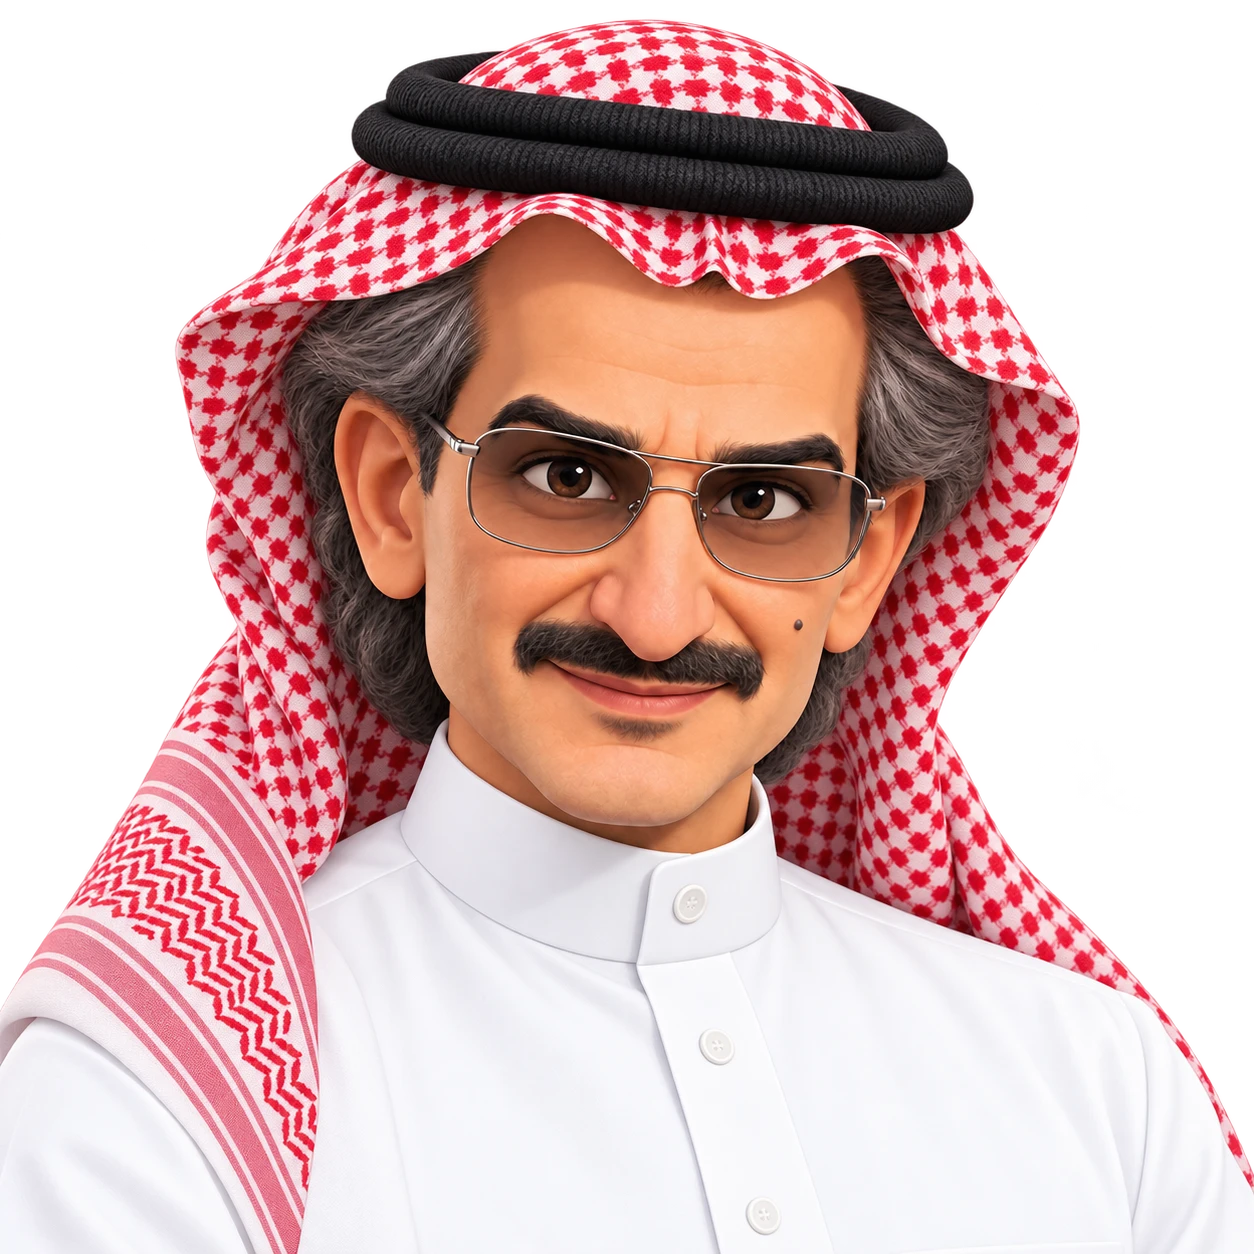
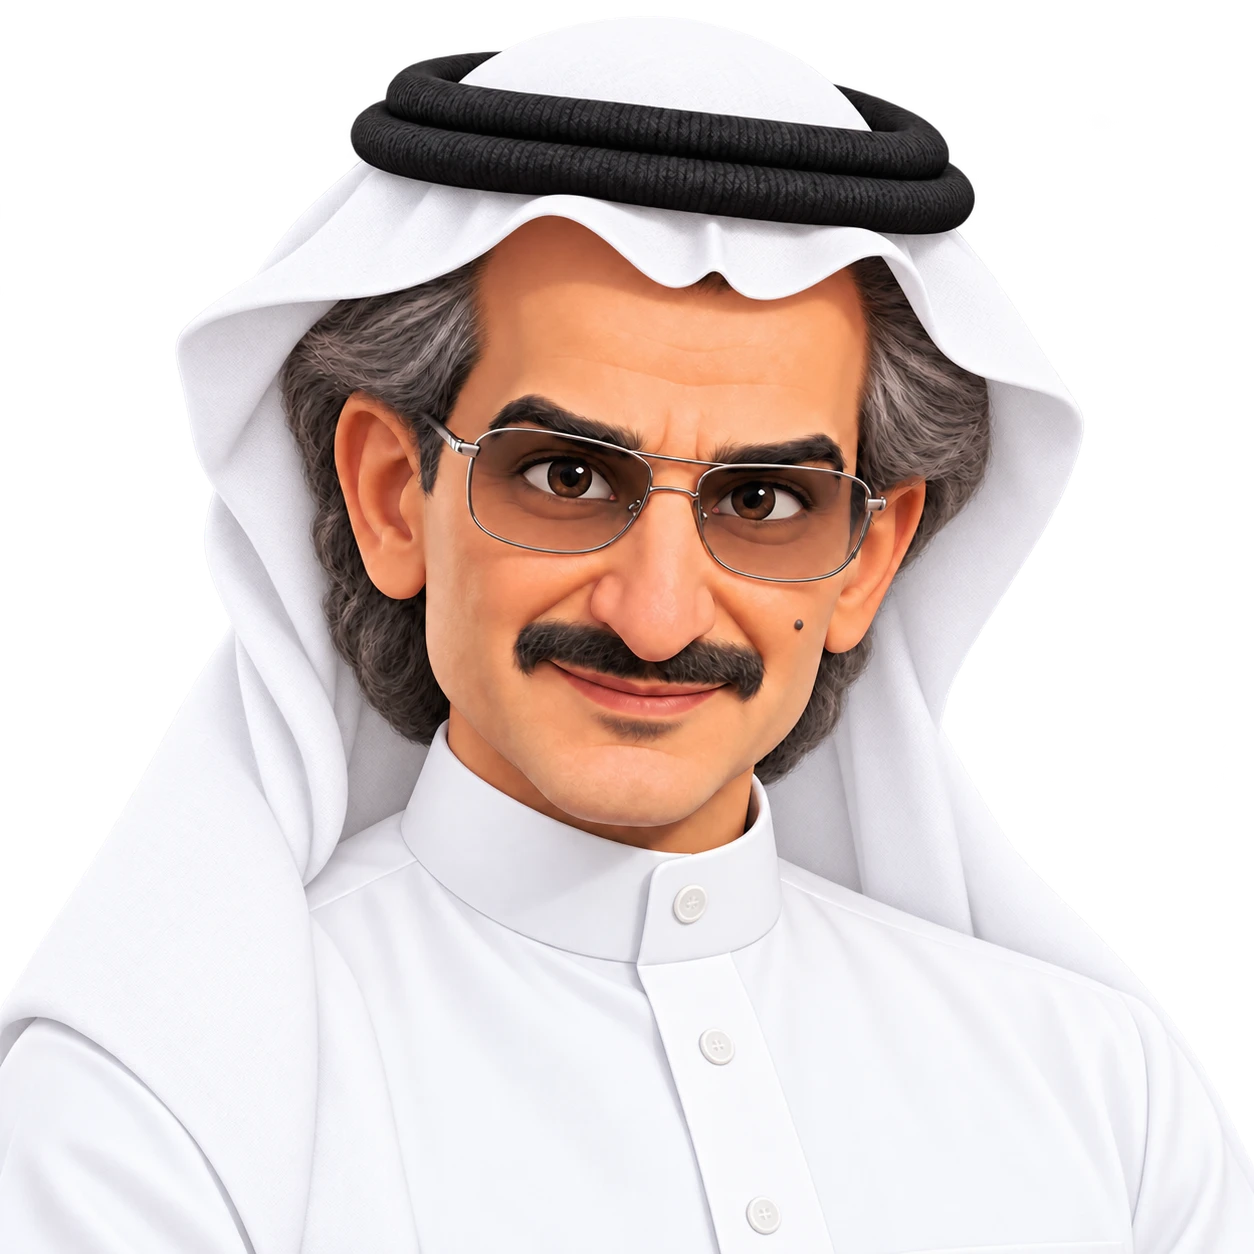
Alwaleed corrected, and the checker learns the new roster
The second Alwaleed has the white ghutra and black agal of the approved portrait.
One small drift remains -- the approved wears tinted lenses, this one clear --
which is recorded rather than sent back, since he is plainly still himself and a
third pass over lens tint is out of proportion.

check-advisor-images.mjs was still looking for alrajhi, so the Al-Rumayyan file
read as "not a seat" and the set reported a seat missing that had already
arrived. Its roster now matches settings.py.

Six of seven are in and consistent: subjects start between 1% and 4% of frame
height and fill 96-99%, centred at 50-51%. Only the Chair's gavel is left.

diff --git a/docs/advisors-image-requests.md b/docs/advisors-image-requests.md
@@ -356,3 +356,21 @@ Attach the approved photo again each time.
 > framing, lighting and transparent background as the reference.
 
 **And the Chair is still to come** — the gavel, per message 7 of Part C.
+
+### Where the set stands (2026-10-26, evening)
+
+Six of seven in `docs/advisors-portraits/incoming/`, and they hold together: subjects start between 1%
+and 4% of frame height and fill 96–99%, centred at 50–51% — spreads of 3, 2 and 1 points.
+
+| Seat | State |
+|---|---|
+| buffett, dalio, marks | good |
+| lynch | good; lost the wide grin, owner's call |
+| alwaleed | **fixed** — white ghutra and black agal as in the approved portrait. One small drift left: the approved has tinted lenses, this has clear ones. Still plainly him; a third pass is probably not worth it |
+| alrumayyan | good — and the seat swap is done in code (`api/app/advisors/alrumayyan.md`) |
+| chair | **still to come** — the gavel, message 7 of Part C |
+
+`check-advisor-images.mjs` knows the new roster: its seat list is `alrumayyan`, not `alrajhi`.
+
+Still outstanding besides the Chair: **the reference image of how the room should look**, without which
+Step 22's arc, table and caption placement are guesses.
